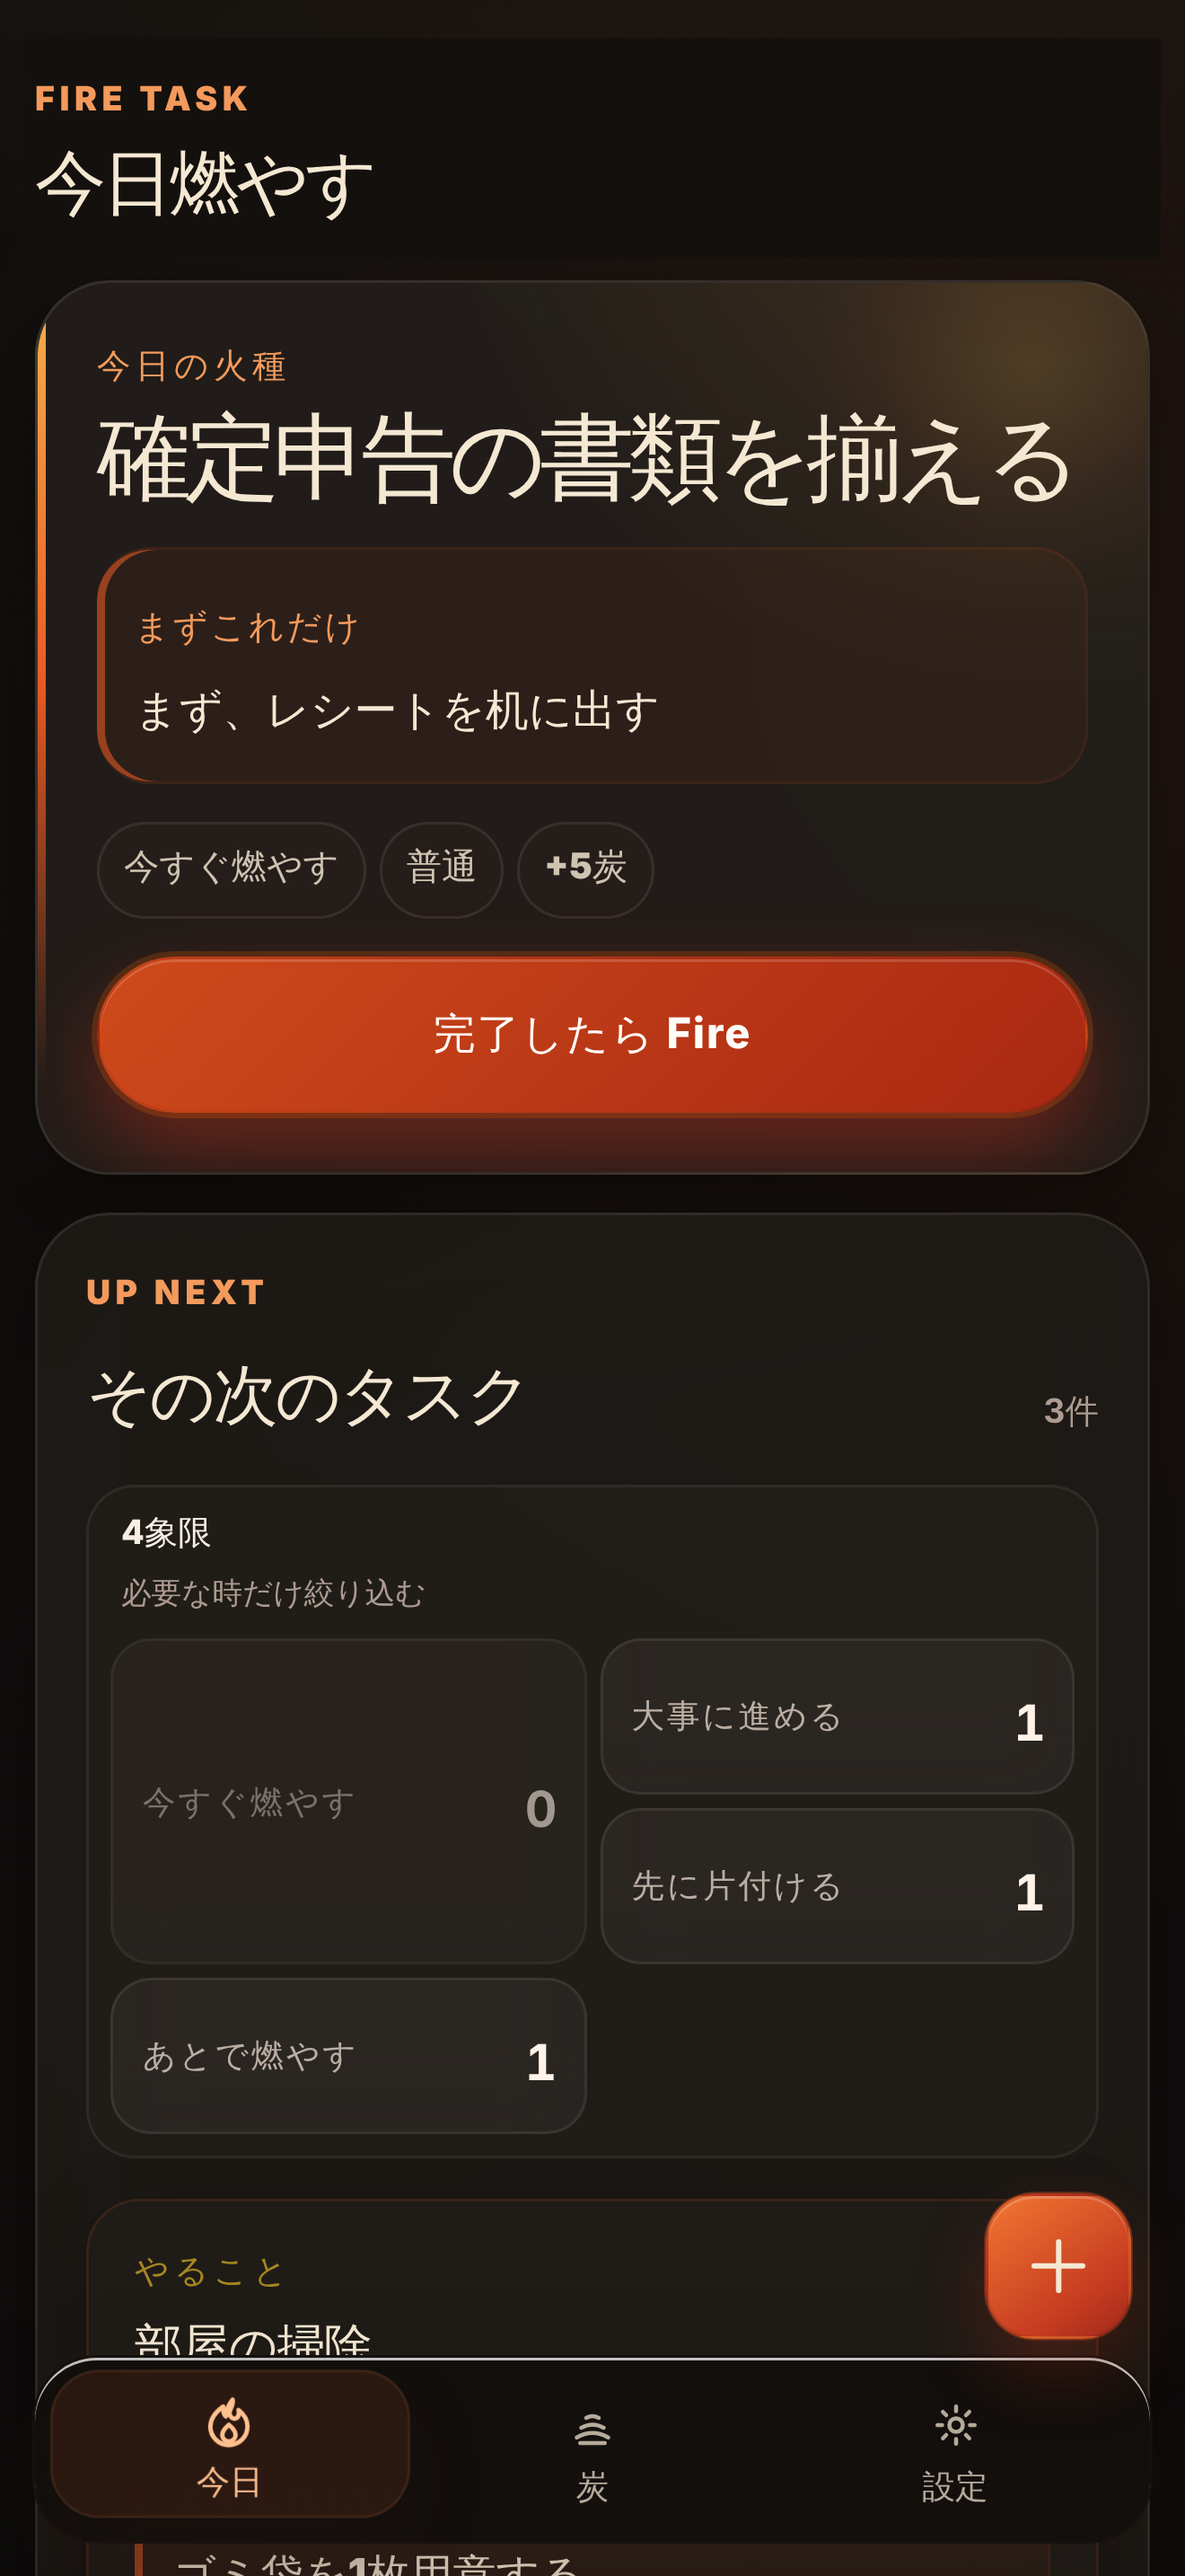
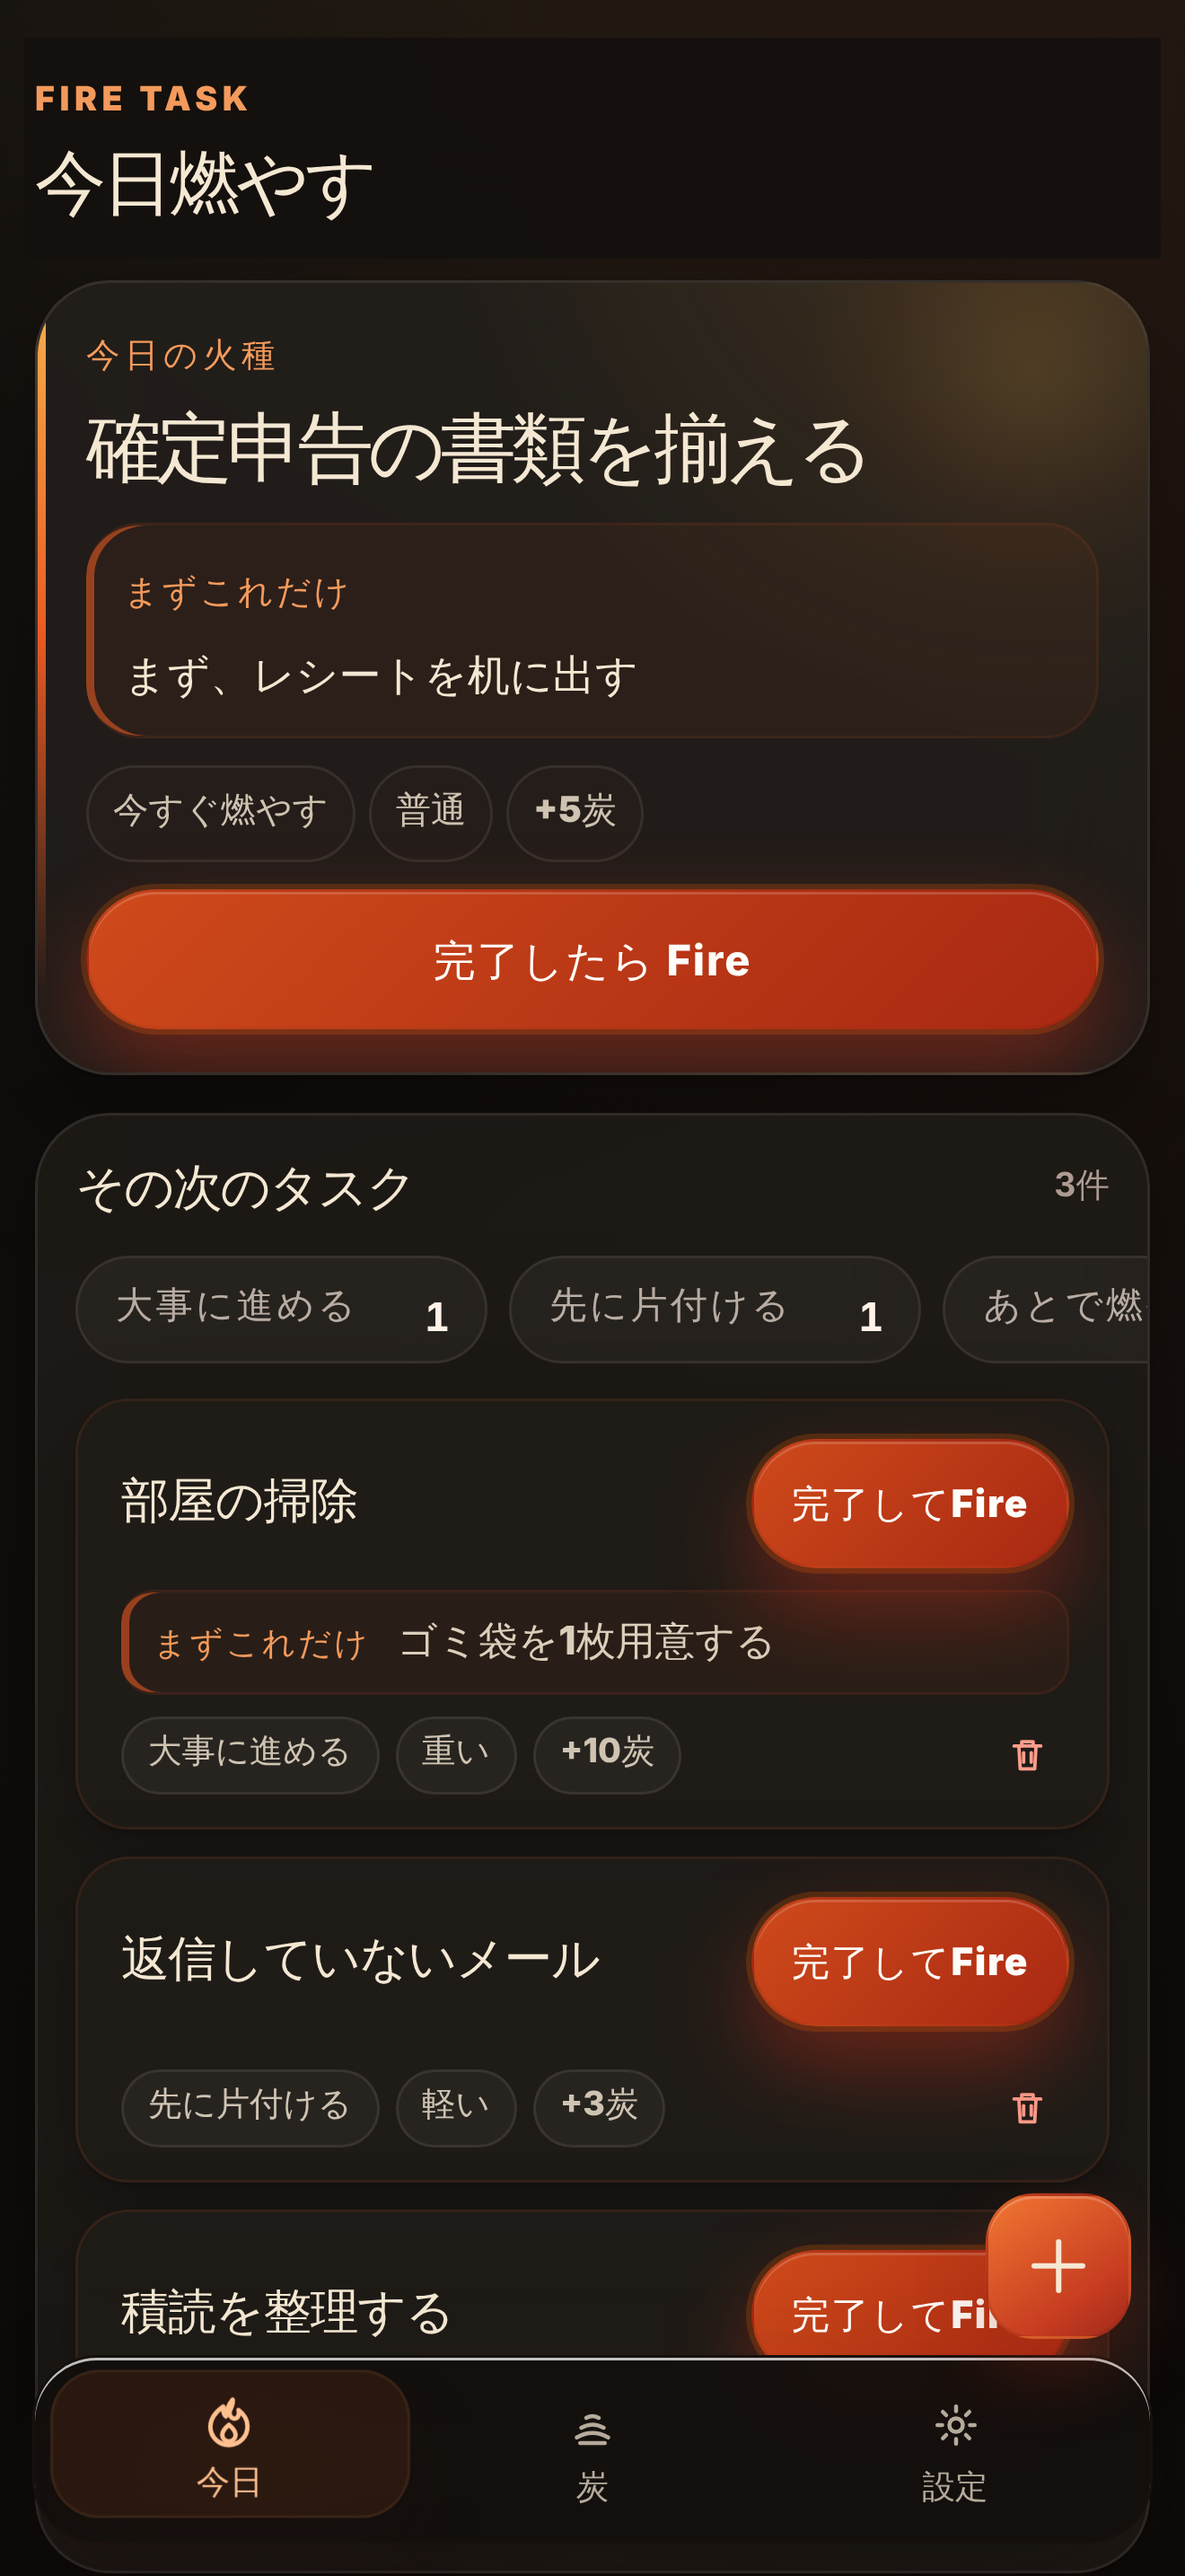
feat: 今日画面のクイックビュー（やることが即見えて、その場でFire）
- 次のタスクを1件1行のコンパクト表示にし、Fireボタンを同じ行に配置
- 4象限フィルタを1行の横スクロールチップに縮小、絞り込み不要時は非表示
- フォーカスカードを圧縮し、最初の画面で次のタスクまで見えるように
- 既定カテゴリのラベルを省略、削除ボタンは目立たない44pxのアイコンに
- 回帰防止テストとApp Storeスクリーンショットを更新

Claude-Session: https://claude.ai/code/session_013JukC2dq313Z82V2p2QeL3

diff --git a/src/quickViewPolish.css b/src/quickViewPolish.css
@@ -1,0 +1,248 @@
+/* ══════════════════════════════════════════════════════════
+   Quick view: see what to do at a glance, burn it in one tap
+   - Queue tasks become compact rows with the Fire button on the same row
+   - The 4-quadrant filter shrinks into one wrapping row of chips
+   - The focus card is tightened so the queue peeks in on first paint
+   ══════════════════════════════════════════════════════════ */
+
+/* ── Focus card: tighter so the next tasks appear on the first screen ── */
+body .focus-seed {
+  gap: 10px;
+  padding: 18px 18px 16px;
+}
+
+body .focus-seed .section-heading h2 {
+  font-size: clamp(1.45rem, 6.4vw, 1.9rem);
+  line-height: 1.3;
+}
+
+body .focus-seed .focus-next-action {
+  padding: 10px 14px;
+}
+
+body .focus-seed .focus-next-action p {
+  font-size: 0.98rem;
+}
+
+body .focus-seed .focus-actions .fire-button {
+  min-height: 52px;
+}
+
+/* ── Queue panel header: a quiet one-line heading ── */
+body .task-queue-panel {
+  gap: 10px;
+  padding: 16px 14px 14px;
+}
+
+body .task-queue-heading .eyebrow {
+  display: none;
+}
+
+body .task-queue-heading h2 {
+  font-size: 1.15rem;
+  line-height: 1.3;
+}
+
+/* ── 4-quadrant filter → one compact row of chips ── */
+body .task-queue-panel .matrix-filter-shell {
+  gap: 6px;
+  padding: 0;
+  border: 0;
+  background: transparent;
+  box-shadow: none;
+}
+
+/* The heading only appears while a filter is active (it carries the "すべて" reset) */
+body .task-queue-panel .matrix-filter-heading {
+  display: none;
+}
+
+body .task-queue-panel .matrix-filter-shell:has(.matrix-reset-button) .matrix-filter-heading {
+  display: flex;
+  align-items: center;
+  justify-content: space-between;
+  gap: 10px;
+  margin: 0;
+}
+
+body .task-queue-panel .matrix-filter-heading > div {
+  display: flex;
+  align-items: baseline;
+  gap: 8px;
+  min-width: 0;
+}
+
+body .task-queue-panel .matrix-filter-heading span {
+  font-size: 0.82rem;
+}
+
+body .task-queue-panel .matrix-filter-heading small {
+  font-size: 0.78rem;
+}
+
+body .matrix-filter-shell .matrix-summary {
+  display: flex;
+  flex-wrap: nowrap;
+  gap: 8px;
+  grid-template-columns: none;
+  grid-template-areas: none;
+  overflow-x: auto;
+  margin: 0 -14px;
+  padding: 2px 14px;
+  scroll-snap-type: x proximity;
+  scroll-padding-inline: 14px;
+  -webkit-overflow-scrolling: touch;
+  scrollbar-width: none;
+}
+
+body .matrix-filter-shell .matrix-summary::-webkit-scrollbar {
+  display: none;
+}
+
+body .matrix-filter-shell .matrix-summary .matrix-cell {
+  grid-area: auto;
+  flex: 0 0 auto;
+  width: auto;
+  max-width: none;
+  scroll-snap-align: start;
+  white-space: nowrap;
+  display: inline-flex;
+  align-items: center;
+  gap: 8px;
+  min-height: 40px;
+  height: auto;
+  padding: 0 14px;
+  border-radius: 999px;
+  text-align: left;
+}
+
+body .matrix-filter-shell .matrix-summary .matrix-cell > span {
+  font-size: 0.86rem;
+}
+
+body .matrix-filter-shell .matrix-summary .matrix-cell > strong {
+  font-size: 0.92rem;
+}
+
+body .matrix-filter-shell .matrix-summary .matrix-cell.is-empty:not([aria-pressed="true"]) {
+  display: none;
+}
+
+/* ── Queue rows: title + Fire on one line ── */
+body #up-next-list {
+  gap: 10px;
+}
+
+body #up-next-list .fire-card:not(.is-burned) {
+  display: grid;
+  grid-template-columns: minmax(0, 1fr) auto;
+  grid-template-areas:
+    "head fire"
+    "next next"
+    "meta meta";
+  align-items: center;
+  column-gap: 12px;
+  row-gap: 8px;
+  padding: 14px 14px 12px 16px;
+  min-height: 0;
+}
+
+body #up-next-list .fire-card:not(.is-burned) .card-header {
+  grid-area: head;
+  margin: 0;
+  min-width: 0;
+}
+
+body #up-next-list .fire-card:not(.is-burned) .card-header .eyebrow {
+  margin: 0 0 2px;
+}
+
+body #up-next-list .fire-card:not(.is-burned) .card-header h3 {
+  margin: 0;
+  font-size: 1.12rem;
+  line-height: 1.35;
+}
+
+body #up-next-list .fire-card:not(.is-burned) .next-action {
+  grid-area: next;
+  display: flex;
+  align-items: baseline;
+  gap: 10px;
+  margin: 0;
+  padding: 8px 12px;
+  border-radius: 12px;
+}
+
+body #up-next-list .fire-card:not(.is-burned) .next-action span {
+  flex: none;
+  font-size: 0.76rem;
+}
+
+body #up-next-list .fire-card:not(.is-burned) .next-action p {
+  margin: 0;
+  font-size: 0.92rem;
+  line-height: 1.45;
+}
+
+body #up-next-list .fire-card:not(.is-burned) .card-quick-meta {
+  grid-area: meta;
+  margin: 0;
+  gap: 6px;
+  min-width: 0;
+  padding-right: 52px;
+}
+
+body #up-next-list .fire-card:not(.is-burned) .card-quick-meta > * {
+  padding: 3px 9px;
+  font-size: 0.78rem;
+  white-space: nowrap;
+}
+
+body #up-next-list .fire-card:not(.is-burned) .card-details {
+  grid-column: 1 / -1;
+}
+
+/* Footer dissolves so the Fire button joins the title row and delete joins the meta row */
+body #up-next-list .fire-card:not(.is-burned) .card-footer,
+body #up-next-list .fire-card:not(.is-burned) .card-actions {
+  display: contents;
+}
+
+body #up-next-list .fire-card:not(.is-burned) .card-footer > span {
+  display: none;
+}
+
+body #up-next-list .fire-card:not(.is-burned) .fire-button {
+  grid-area: fire;
+  align-self: center;
+  min-height: 48px;
+  min-width: 100px;
+  padding: 0 14px;
+  font-size: 0.88rem;
+  white-space: nowrap;
+}
+
+body #up-next-list .fire-card:not(.is-burned) .card-delete-button {
+  grid-area: meta;
+  justify-self: end;
+  align-self: center;
+  width: 44px;
+  height: 44px;
+  min-height: 44px;
+  margin: -8px -6px -8px 0;
+  border-color: transparent;
+  background: transparent;
+  box-shadow: none;
+}
+
+/* The legacy pressed-dot would sit on the scrolling chip row; the filled chip is the indicator */
+body .matrix-filter-shell .matrix-cell[aria-pressed="true"]::after {
+  display: none;
+}
+
+/* Titles: avoid breaking a word's last glyph onto its own line when space is tight */
+body #up-next-list .fire-card:not(.is-burned) .card-header h3 {
+  overflow-wrap: break-word;
+  word-break: normal;
+  line-break: strict;
+}

diff --git a/src/quickViewPolish.test.ts b/src/quickViewPolish.test.ts
@@ -1,0 +1,37 @@
+import { readFileSync } from 'node:fs';
+import { resolve } from 'node:path';
+import { describe, expect, it } from 'vitest';
+
+describe('quick view: tasks visible at a glance, one tap to Fire', () => {
+  const css = readFileSync(resolve(__dirname, 'quickViewPolish.css'), 'utf-8');
+  const main = readFileSync(resolve(__dirname, 'main.tsx'), 'utf-8');
+  const app = readFileSync(resolve(__dirname, 'App.tsx'), 'utf-8');
+  const card = readFileSync(resolve(__dirname, 'components/FireCard.tsx'), 'utf-8');
+
+  it('loads before the final readability pass', () => {
+    expect(main.indexOf("import './quickViewPolish.css';")).toBeGreaterThan(-1);
+    expect(main.indexOf("import './quickViewPolish.css';")).toBeLessThan(main.indexOf("import './readabilityPolish.css';"));
+  });
+
+  it('puts the Fire button on the same row as the queue task title', () => {
+    expect(css).toContain('"head fire"');
+    expect(css).toMatch(/\.card-footer,\s*body #up-next-list \.fire-card:not\(\.is-burned\) \.card-actions\s*\{\s*display: contents/);
+    expect(css).toMatch(/\.fire-button\s*\{[^}]*min-height: 48px/);
+  });
+
+  it('keeps the delete control a full 44px tap target', () => {
+    expect(css).toMatch(/\.card-delete-button\s*\{[^}]*width: 44px;[^}]*height: 44px/);
+  });
+
+  it('collapses the quadrant filter into one scrolling chip row', () => {
+    expect(css).toMatch(/\.matrix-summary\s*\{[^}]*flex-wrap: nowrap[^}]*overflow-x: auto/);
+  });
+
+  it('only offers the quadrant filter when there is something to filter', () => {
+    expect(app).toContain('matrixItems.filter((item) => item.count > 0).length > 1 || quadrantFilter');
+  });
+
+  it('hides the default category label so every row does not repeat "やること"', () => {
+    expect(card).toContain("seed.burned || seed.category !== 'task'");
+  });
+});

diff --git a/src/App.tsx b/src/App.tsx
@@ -601,6 +601,7 @@ export default function App() {
                   </span>
                 </div>
 
+                {matrixItems.filter((item) => item.count > 0).length > 1 || quadrantFilter ? (
                 <section className="matrix-filter-shell" aria-label="次のタスクを4象限で絞り込む">
                   <div className="matrix-filter-heading">
                     <div>
@@ -630,6 +631,7 @@ export default function App() {
                     ))}
                   </div>
                 </section>
+                ) : null}
 
                 <div id="up-next-list" className="cards-stack">
                   {filteredQueueTasks.length > 0 ? (

diff --git a/src/components/FireCard.tsx b/src/components/FireCard.tsx
@@ -50,7 +50,9 @@ export function FireCard({ seed, onFire, onDelete, isNew }: FireCardProps) {
     >
       <div className="card-header">
         <div>
-          <p className="eyebrow">{seed.burned ? '炭になったタスク' : categoryLabels[seed.category]}</p>
+          {seed.burned || seed.category !== 'task' ? (
+            <p className="eyebrow">{seed.burned ? '炭になったタスク' : categoryLabels[seed.category]}</p>
+          ) : null}
           <h3 id={titleId}>{jp(seed.title)}</h3>
         </div>
         {seed.burned ? <span className="priority">+{seed.ashPoints} 炭</span> : null}

diff --git a/src/main.tsx b/src/main.tsx
@@ -41,6 +41,7 @@ import './accessibilityPolish.css';
 import './dimensionalPolish.css';
 import './tactilePolish.css';
 import './japaneseWrap.css';
+import './quickViewPolish.css';
 import './readabilityPolish.css';
 
 createRoot(document.getElementById('root')!).render(
